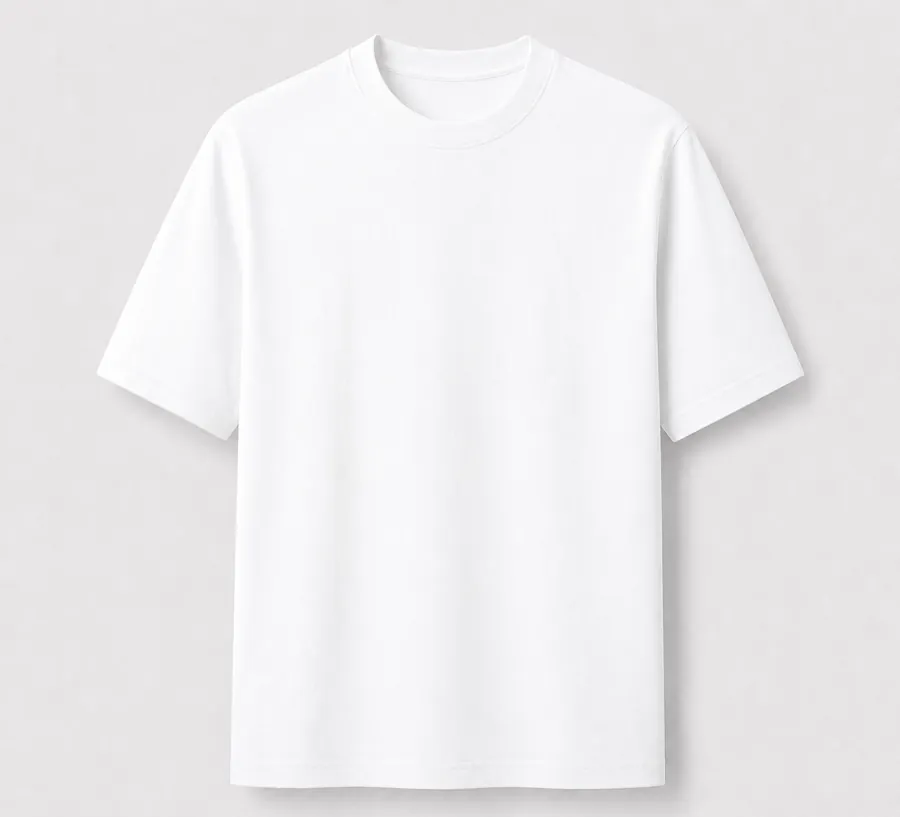
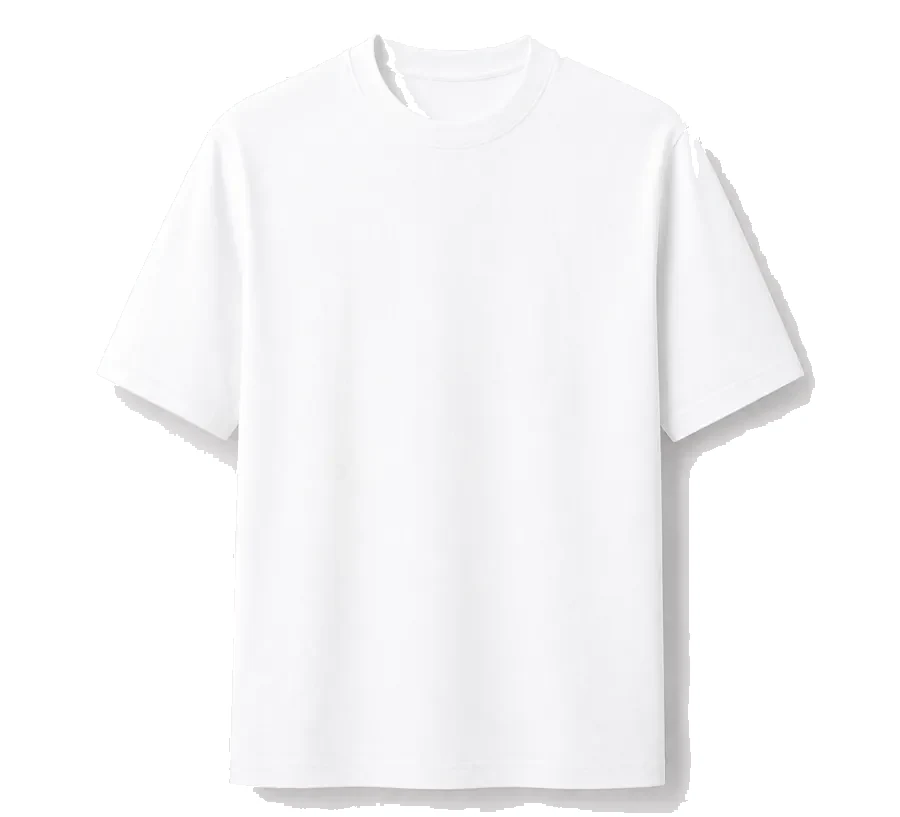
Порядок у картці КП і сірі смуги навколо фото
Порядок. Між назвою і ціною стояв перемикач пакетів — людина обирала
комплектацію, ще не знаючи, скільки коштує базова. Тепер як на сторінці
товару в магазині: назва → ціна → пакет → кількість і кнопка. Пакет після
ціни читається як «а можна інакше», і ціна тут же перераховується.

Сірі смуги. Тло кадру було світло-сірим, а в самій світлині футболки фон
запечений іншим відтінком сірого — над і під фото зʼявлялися смуги. Тло
кадру стало кольором картки (біле), а сірий фон із самих світлин футболки
вибілено заливкою від країв. Решта фото й так були на білому.

Claude-Session: https://claude.ai/code/session_019yk9daDd3RZdNhorLkMyU1

diff --git a/offer.html b/offer.html
@@ -481,7 +481,7 @@ j=d.createElement(s),dl=l!='dataLayer'?'&l='+l:'';j.async=true;j.src=
   /* Рівно половина ширини на кадр і жодного проміжку: два фото змикаються
      в один знімок від краю до краю, а третє видно лише коли гортаєш. */
   .pgal-i{position:relative; flex:0 0 50%; scroll-snap-align:start;
-    aspect-ratio:3/4; overflow:hidden; background:#F2F3F5;}
+    aspect-ratio:3/4; overflow:hidden; background:#fff;}
   .pgal-i + .pgal-i{box-shadow:inset 1px 0 0 rgba(0,0,0,.05);}
   .pgal.one .pgal-i{flex-basis:100%; aspect-ratio:1/1; max-height:62vh;}
   .pgal-i img{width:100%; height:100%; object-fit:contain; display:block; cursor:zoom-in;}
@@ -1518,6 +1518,11 @@ height="0" width="0" style="display:none;visibility:hidden"></iframe></noscript>
      Кількість стоїть НАД ціною, бо саме вона керує ціною: людина клацає
      кількість і бачить, як міняється сума. Кнопка внизу, коли всі числа
      вже перед очима. */
+  /* Порядок у картці: назва → ЦІНА → пакет → кількість і кнопка.
+     Раніше між назвою і ціною стояв перемикач пакетів, і людина спершу
+     обирала комплектацію, ще не знаючи, скільки коштує базова. У магазинах
+     ціна стоїть одразу під назвою — і саме її шукає око. Пакет після неї
+     читається як «а можна інакше», і ціна тут же перераховується. */
   function tiersHtml(i){
     var st = itemState(i);
     var on = isOn(i);
@@ -1544,6 +1549,7 @@ height="0" width="0" style="display:none;visibility:hidden"></iframe></noscript>
         // Множення тут не робимо: підсумок по позиції рахує кошторис
         (next ? '<div class="pqty-n">Від ' + next.qty + ' шт — ' + money(next.unit) +
                 '</div>' : '') +
+        packsHtml(i) +
         /* Кількість поруч із кнопкою — так це роблять маркетплейси: обидві
            дії в одному рядку, у зоні великого пальця, і не треба шукати
            лічильник десь вище. */
@@ -1577,7 +1583,7 @@ height="0" width="0" style="display:none;visibility:hidden"></iframe></noscript>
                   [tech, it.color].filter(Boolean).map(esc).join(' · ') + '</div>' +
               '</div>' +
             '</div>' +
-            '<div data-tiers="' + i + '">' + packsHtml(i) + tiersHtml(i) + '</div>' +
+            '<div data-tiers="' + i + '">' + tiersHtml(i) + '</div>' +
             '<details class="pcard-more">' +
               '<summary>Деталі позиції</summary>' +
               '<div class="pcard-more-body">' + specsHtml(it, i) + noteHtml(i) + priceBoxHtml(i) + '</div>' +
@@ -2248,7 +2254,7 @@ height="0" width="0" style="display:none;visibility:hidden"></iframe></noscript>
       var box = document.querySelector('[data-price-box="' + i + '"]');
       if(box) box.outerHTML = priceBoxHtml(i);
       var tw = document.querySelector('[data-tiers="' + i + '"]');
-      if(tw) tw.innerHTML = packsHtml(i) + tiersHtml(i);
+      if(tw) tw.innerHTML = tiersHtml(i);
     });
     var packs = document.getElementById('packs');
     if(packs) packs.outerHTML = packagesHtml();
